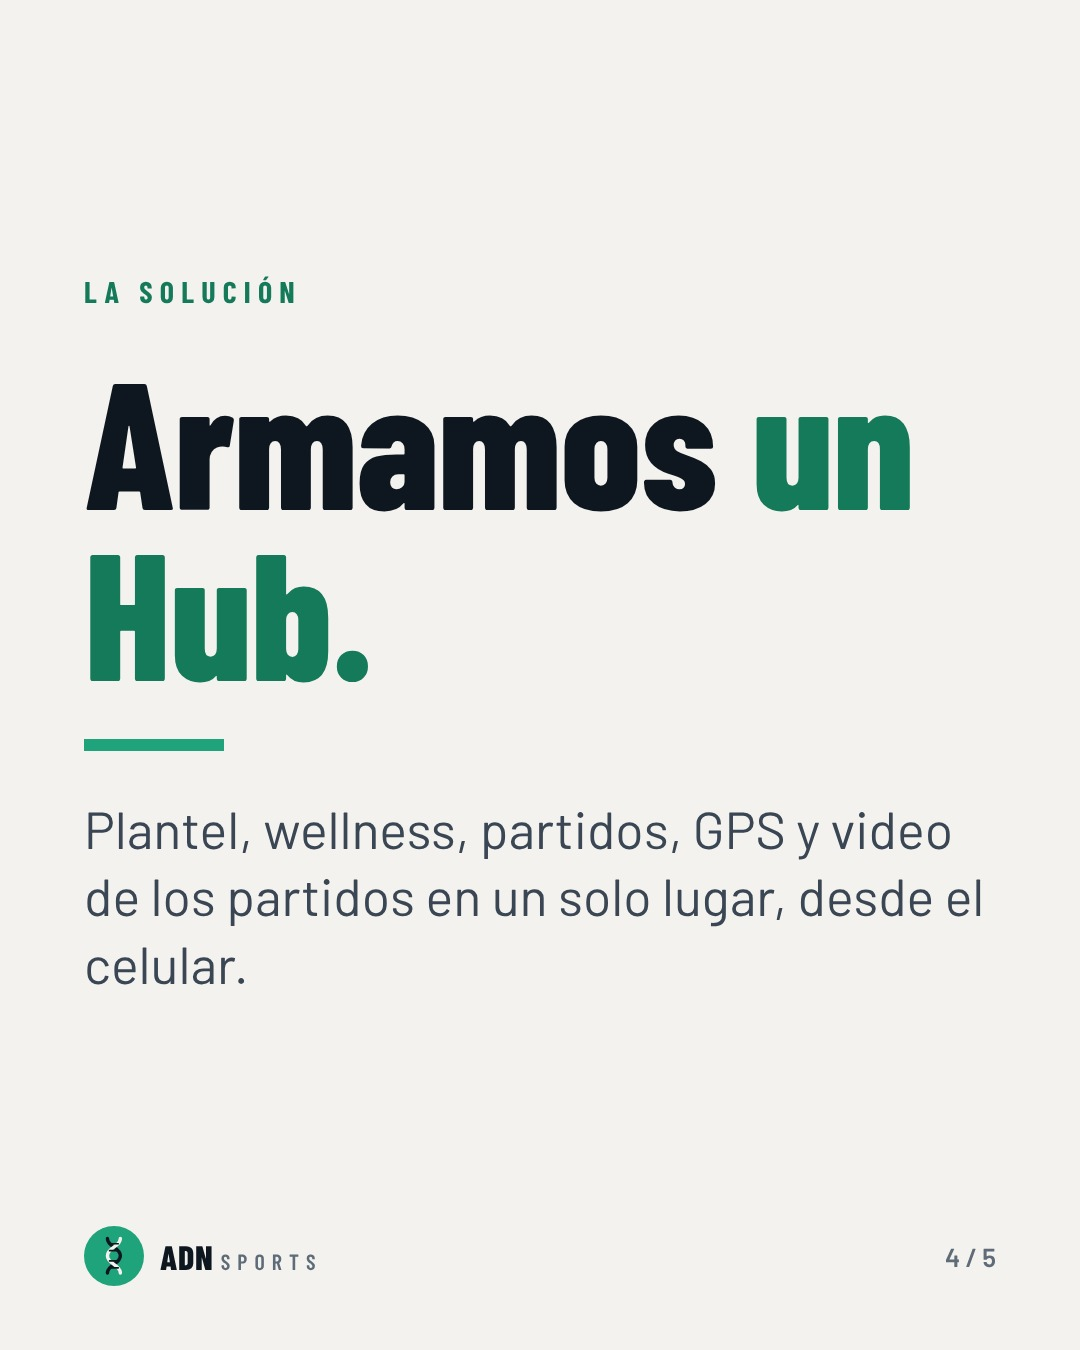
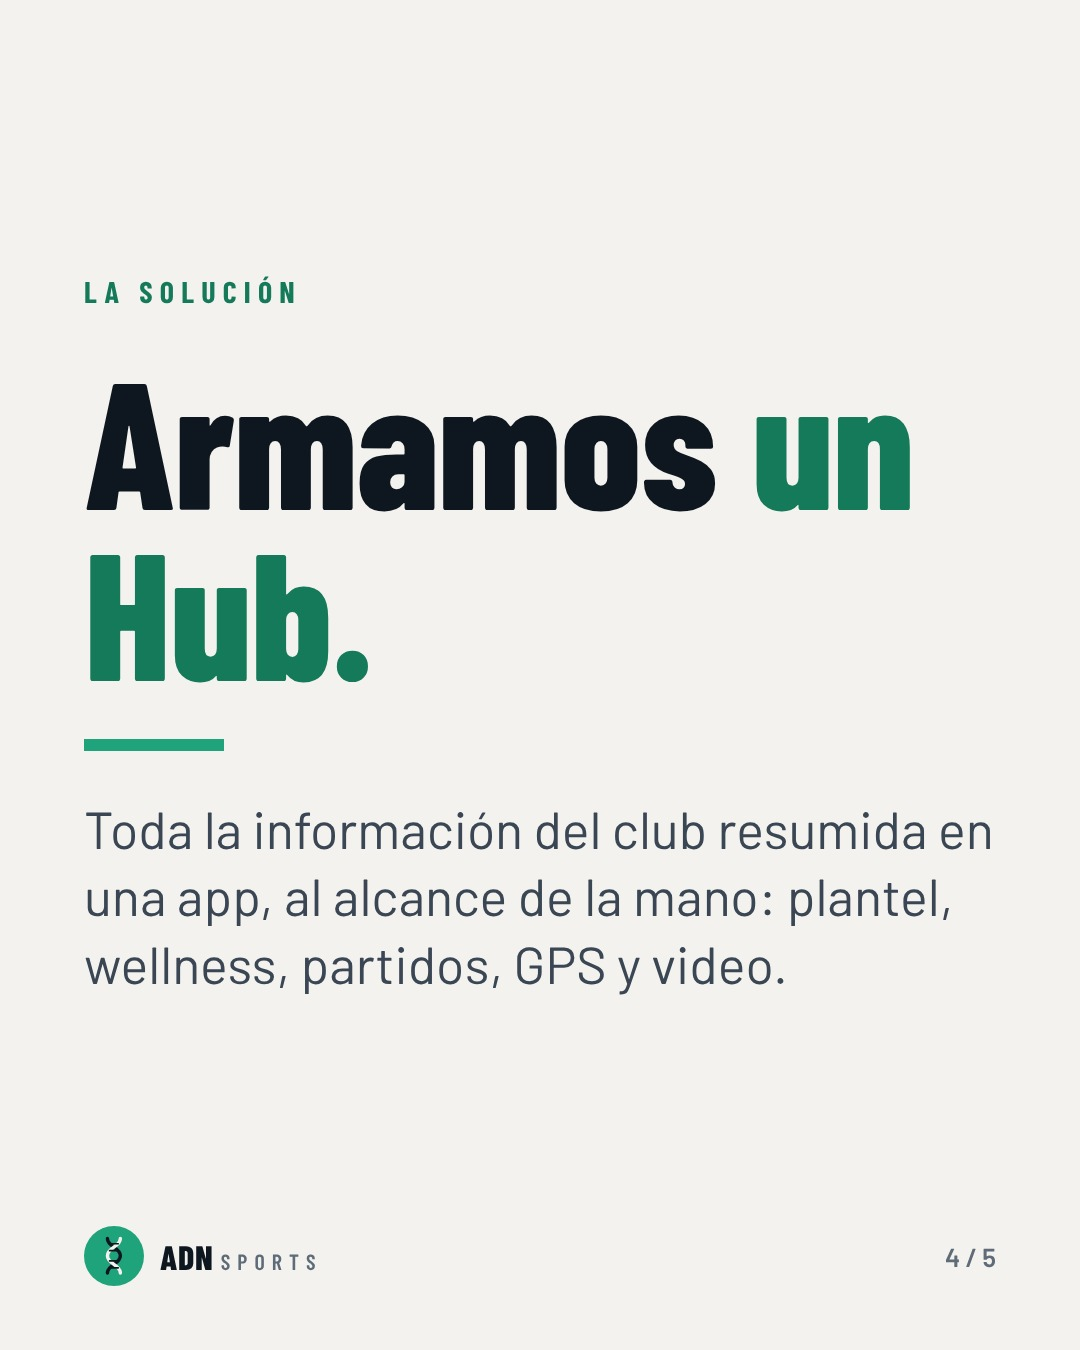
Concepto: toda la información de tu club en una app; «un Hub» en web, demo y placas
Claude-Session: https://claude.ai/code/session_01DY6iudhp7zRP8ZBDTtjtK8

Changed region(s): [[0.0611, 0.5911, 0.9167, 0.7467], [0.275, 0.7156, 0.3361, 0.7467]]

diff --git a/adn-web/src/Landing.jsx b/adn-web/src/Landing.jsx
@@ -85,7 +85,7 @@ const MOMENTOS = [
     titulo: "Después del partido",
     modulos: [
       ["Informe de partido", "Estadísticas del equipo y de cada jugador. Lo que se cargó en el Matchday ya está adentro."],
-      ["Análisis de video", "Mientras mirás el partido, marcás posesión, territorio y obtención. El Hub calcula solo el tiempo de juego efectivo y las secuencias."],
+      ["Análisis de video", "Mientras mirás el partido, marcás posesión, territorio y obtención. La app calcula sola el tiempo de juego efectivo y las secuencias."],
       ["Videoteca", "Los partidos de tu club y los del próximo rival, sin salir de la app."],
       ["GPS", "Si tu club usa GPS, distancia, alta intensidad y velocidad por jugador en cada partido y entrenamiento."],
       ["Reportes individuales", "Cualidades físicas, estadísticas de la temporada e historial médico de cada jugador en una sola página."],
@@ -100,7 +100,7 @@ const PASOS = [
 ];
 
 const DEPORTES = [
-  ["Rugby", "Donde nació el Hub. Puestos del 1 al 15, formaciones y análisis de partido."],
+  ["Rugby", "Donde nació nuestro primer Hub. Puestos del 1 al 15, formaciones y análisis de partido."],
   ["Hockey", "Plantel por línea, rotaciones, córners cortos y carga de partido."],
   ["Fútbol", "Esquemas tácticos, minutos jugados, tarjetas y carga semanal."],
   ["Básquet", "Rotaciones, minutos, estadísticas por cuarto y carga en temporada larga."],
@@ -109,7 +109,7 @@ const DEPORTES = [
 const PREGUNTAS = [
   ["¿Sirve para mi deporte?", "Sí. Wellness, asistencia, sesiones, cuerpo médico, videoteca y avisos funcionan igual en cualquier deporte. Lo que cambia según el deporte (puestos, formación, estadísticas del partido) lo adaptamos para tu club durante la puesta en marcha."],
   ["¿Quién ve los datos de mi club?", "Solo las personas de tu club, según su rol: el jugador ve lo suyo, el cuerpo médico ve las lesiones y el staff ve el plantel. Otros clubes nunca ven tus datos. ADN Sports solo ve cantidades de uso para dar soporte, nunca datos de jugadores."],
-  ["¿Los jugadores tienen que instalar algo?", "No. El Hub se abre desde el navegador del celular y se puede agregar a la pantalla de inicio como una app."],
+  ["¿Los jugadores tienen que instalar algo?", "No. La app se abre desde el navegador del celular y se puede agregar a la pantalla de inicio como una app."],
   ["¿Sirve para juveniles?", "Sí. En juveniles los videos solo los ven los dos clubes que jugaron ese partido, y los datos de menores nunca se comparten."],
   ["¿Cómo funciona la Videoteca compartida?", "En Primera, los clubes de una misma división comparten los videos de sus partidos. Si tu club sube los suyos, ve los de los demás. Si no sube, no ve."],
   ["¿Puedo cancelar?", "Sí. El plan mensual se cancela cuando quieras desde Mercado Pago. El anual cubre los 12 meses ya pagados."],
@@ -125,7 +125,7 @@ export default function Landing() {
         <div className="ancho cabecera-fila">
           <Marca />
           <nav className="menu" aria-label="Secciones">
-            <a href="#hub">El Hub</a>
+            <a href="#hub">Qué tiene</a>
             <a href="#planes">Planes</a>
             <a href="#pago">Cómo se paga</a>
             <a className="boton chico" href="/demo">Probar la demo</a>
@@ -136,9 +136,9 @@ export default function Landing() {
       <main id="contenido">
         <section className="hero ancho">
           <div className="hero-txt">
-            <h1>Todo tu club, en un solo lugar.</h1>
+            <h1>Toda la información de tu club, en una app.</h1>
             <p className="bajada">
-              Plantel, wellness, Matchday en vivo, análisis de video, GPS y cuerpo médico. Nació en el rugby, para nuestro propio cuerpo técnico, y
+              Plantel, wellness, Matchday en vivo, análisis de video, GPS y cuerpo médico, resumidos y al alcance de tu mano. Nació en el rugby, para nuestro propio cuerpo técnico, y
               lo adaptamos al deporte de tu club: básquet, fútbol, hockey y más.
             </p>
             <div className="acciones">
@@ -147,9 +147,9 @@ export default function Landing() {
             </div>
             <p className="nota">La demo muestra un club de rugby ficticio. No hace falta registrarse.</p>
           </div>
-          <div className="telefono" aria-label="Demo del Hub funcionando">
+          <div className="telefono" aria-label="Demo de un Hub funcionando">
             <div className="telefono-marco">
-              <iframe src="/demo?embed=1" title="Demo del Hub con un club ficticio" loading="lazy" />
+              <iframe src="/demo?embed=1" title="Demo de un Hub con un club ficticio" loading="lazy" />
             </div>
             <a className="telefono-pie" href="/demo">Abrir la demo en pantalla completa</a>
           </div>
@@ -181,7 +181,7 @@ export default function Landing() {
                 <ul>{ANTES.map((t) => <li key={t}>{t}</li>)}</ul>
               </div>
               <div className="semana-col despues">
-                <h3>Con el Hub</h3>
+                <h3>Con un Hub</h3>
                 <ul>{CON_HUB.map((t) => <li key={t}>{t}</li>)}</ul>
               </div>
             </div>
@@ -189,7 +189,7 @@ export default function Landing() {
         </section>
 
         <section id="hub" className="ancho modulos" aria-labelledby="hub-t">
-          <h2 id="hub-t">Qué tiene el Hub</h2>
+          <h2 id="hub-t">Qué tiene tu Hub</h2>
           <p className="bajada">Toda la semana del staff, de lunes al partido y después. Cada club tiene su propio Hub, con su escudo y sus colores, y activa los módulos que usa.</p>
           {MOMENTOS.map((m) => (
             <div key={m.titulo} className="momento">
@@ -225,7 +225,7 @@ export default function Landing() {
 
         <section id="planes" className="ancho planes" aria-labelledby="planes-t">
           <h2 id="planes-t">Planes</h2>
-          <p className="bajada">Los dos planes incluyen el Hub completo para tu club, la puesta en marcha y soporte por mensaje.</p>
+          <p className="bajada">Los dos planes incluyen un Hub completo para tu club, la puesta en marcha y soporte por mensaje.</p>
           <div className="planes-fila">
             {PLANES.map((p) => (
               <article key={p.id} className={`plan${p.id === "anual" ? " destacado" : ""}`}>

diff --git a/adn-web/src/demo/Demo.jsx b/adn-web/src/demo/Demo.jsx
@@ -48,7 +48,7 @@ export default function Demo() {
             <span>ADN Sports</span>
           </a>
           <span className="d-aviso-txt">Demo con un club y datos ficticios. Tocá todo lo que quieras.</span>
-          <a className="d-aviso-btn" href={MENSAJE_URL} target="_blank" rel="noreferrer">Quiero el Hub para mi club</a>
+          <a className="d-aviso-btn" href={MENSAJE_URL} target="_blank" rel="noreferrer">Quiero un Hub para mi club</a>
         </div>
       )}
       <div className="d-cuerpo">
@@ -299,7 +299,7 @@ function Wellness({ verJugador }) {
       <section className="d-tarjeta">
         <h2>Faltan responder ({faltan.length})</h2>
         <p className="d-txt">{faltan.map((j) => j.nombre).join(", ")}.</p>
-        <p className="d-sub">En el Hub real les llega un recordatorio al celular.</p>
+        <p className="d-sub">En un Hub real les llega un recordatorio al celular.</p>
       </section>
     </>
   );
@@ -340,7 +340,7 @@ function Partidos({ ir }) {
             </tbody>
           </table>
         </div>
-        <p className="d-sub">Cuando los dos clubes usan el Hub, el resultado se carga una sola vez y aparece en los dos.</p>
+        <p className="d-sub">Cuando los dos clubes tienen su Hub, el resultado se carga una sola vez y aparece en los dos.</p>
       </section>
       <button type="button" className="d-tarjeta d-cta-md" onClick={() => ir("matchday")}>
         <span className="d-vivo">● Sábado: día de partido</span>
@@ -417,7 +417,7 @@ function Matchday() {
         <section className="d-tarjeta d-md-fin">
           <div className="d-md-res">{gf} – {gc}</div>
           <p className="d-sub">Tries: {tries("club")} a {tries("rival")} · Tarjetas: {registro.filter((i) => /^🟨|^🟥/.test(i.texto)).length} · Duración: {reloj(seg)}</p>
-          <p className="d-txt">En el Hub real, el resultado se guarda en el calendario, el minuto de cada try pasa al análisis del partido y las tarjetas quedan en la ficha de cada jugador.</p>
+          <p className="d-txt">En un Hub real, el resultado se guarda en el calendario, el minuto de cada try pasa al análisis del partido y las tarjetas quedan en la ficha de cada jugador.</p>
           <button type="button" className="d-filtro" onClick={() => { setTerminado(false); setSeg(0); setGf(0); setGc(0); setRegistro([]); setAfuera({}); setExpulsados([]); }}>Empezar otro partido</button>
         </section>
       </>
@@ -541,7 +541,7 @@ function Videoteca() {
             </span>
           </button>
           {abierto === i && (
-            <p className="d-txt d-video-nota">En el Hub real acá se reproduce el partido completo desde YouTube, sin salir de la app. Solo lo ve el cuerpo técnico.</p>
+            <p className="d-txt d-video-nota">En un Hub real acá se reproduce el partido completo desde YouTube, sin salir de la app. Solo lo ve el cuerpo técnico.</p>
           )}
         </section>
       ))}

diff --git a/adn-web/index.html b/adn-web/index.html
@@ -4,7 +4,7 @@
     <meta charset="UTF-8" />
     <meta name="viewport" content="width=device-width, initial-scale=1.0" />
     <title>ADN Sports · Un Hub para tu club</title>
-    <meta name="description" content="Plantel, wellness, partidos, GPS y video de tu club en un solo lugar. Rugby, hockey, fútbol, básquet y más. Probá la demo con un club ficticio." />
+    <meta name="description" content="Toda la información de tu club, en una app y al alcance de tu mano: plantel, wellness, Matchday, video y GPS. Rugby, hockey, fútbol, básquet y más." />
     <meta name="theme-color" content="#F4F2EE" />
     <meta property="og:title" content="ADN Sports · Un Hub para tu club" />
     <meta property="og:description" content="Plantel, wellness, partidos, GPS y video en un solo lugar. Para clubes de cualquier deporte." />

diff --git a/adn-panel/scripts/render_verde.py b/adn-panel/scripts/render_verde.py
@@ -86,14 +86,14 @@ POSTS["01-presentacion"] = [
           <div style="font:600 60px BC;letter-spacing:.32em">SPORTS</div>
         </div>
       </div>
-      <div style="font:500 42px B;color:{SUB}">Un Hub para tu club, en cualquier deporte.</div>
+      <div style="font:500 42px B;color:{SUB}">Toda la información de tu club, en una app.</div>
     </div>""", 1, T),
     texto("Quiénes somos", 'Venimos <span class="n">del rugby.</span>',
           "Staff, entrenadores y preparadores. Los martes y jueves a la noche, al costado de la cancha.", 2, T),
     texto("El problema", 'Nos cansamos de <span class="n">las planillas.</span>',
           "Grupos de WhatsApp, un Excel que nadie actualiza y la lista de asistencia en papel. Todo en lugares distintos.", 3, T),
     texto("La solución", 'Armamos <span class="n">un Hub.</span>',
-          "Plantel, wellness, partidos, GPS y video de los partidos en un solo lugar, desde el celular.", 4, T, 180),
+          "Toda la información del club resumida en una app, al alcance de la mano: plantel, wellness, partidos, GPS y video.", 4, T, 180),
     placa(f"""
     <div class="c" style="gap:44px">
       <div class="k">Ahora</div>
@@ -242,7 +242,7 @@ POSTS["10-matchday"] = [
     <div class="c" style="gap:52px">
       <h1 class="t" style="font-size:120px">Un toque <span class="n">y suma.</span></h1>
       {MARCADOR}
-      <p class="s">Try, penal o drop: el Hub pregunta si convirtió y calcula el resultado.</p>
+      <p class="s">Try, penal o drop: la app pregunta si convirtió y calcula el resultado.</p>
     </div>""", 2, T),
     placa(f"""
     <div class="c" style="gap:52px">
